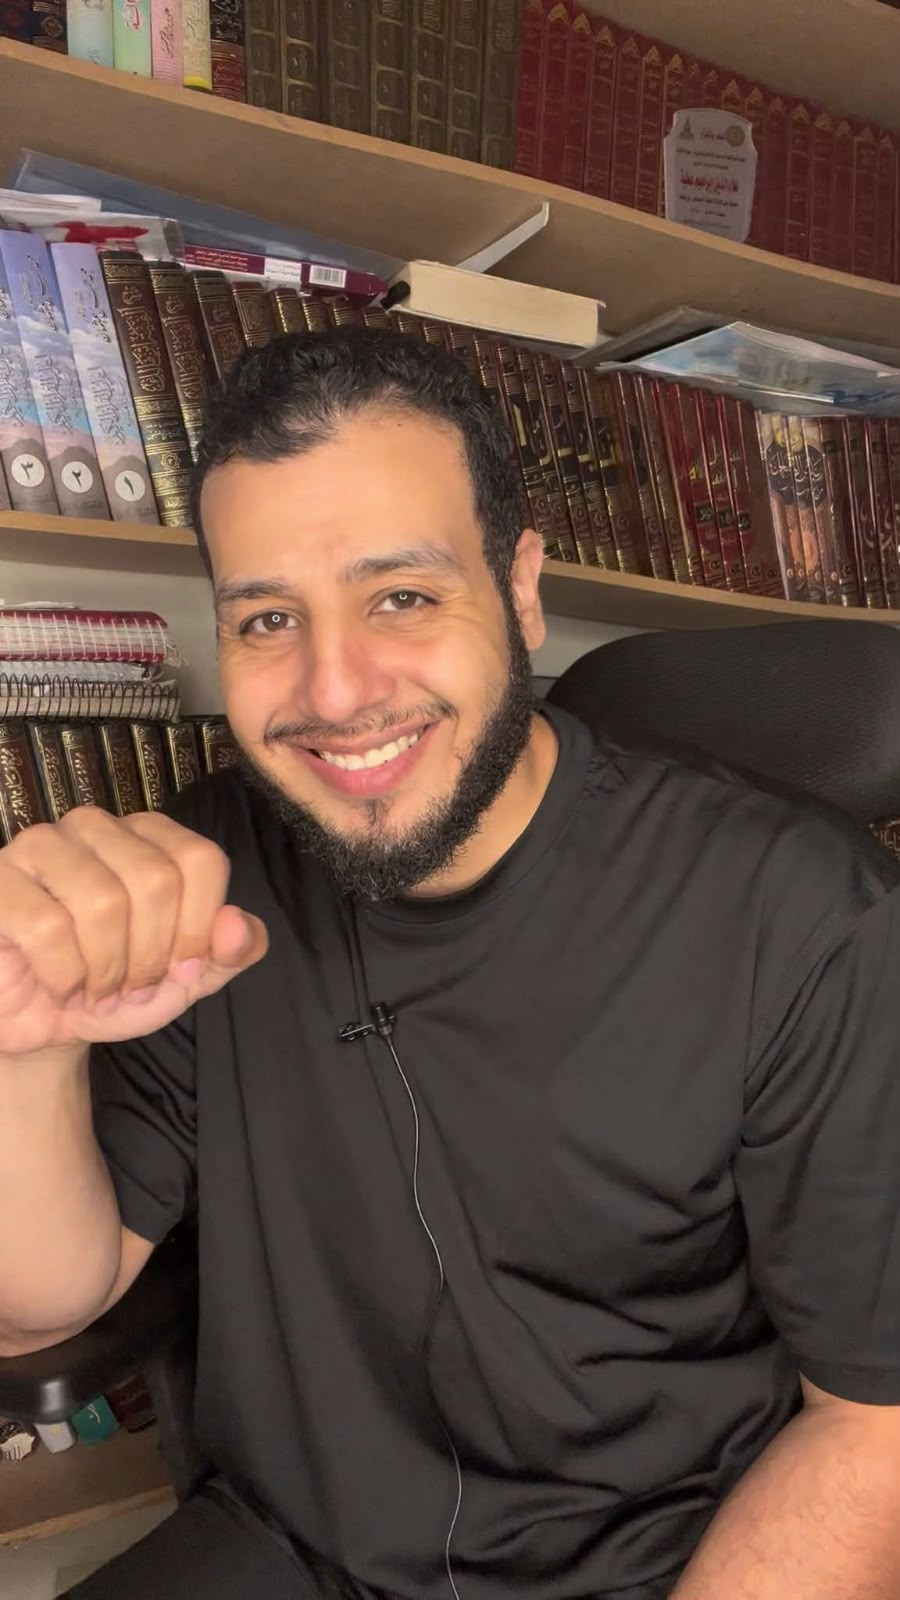
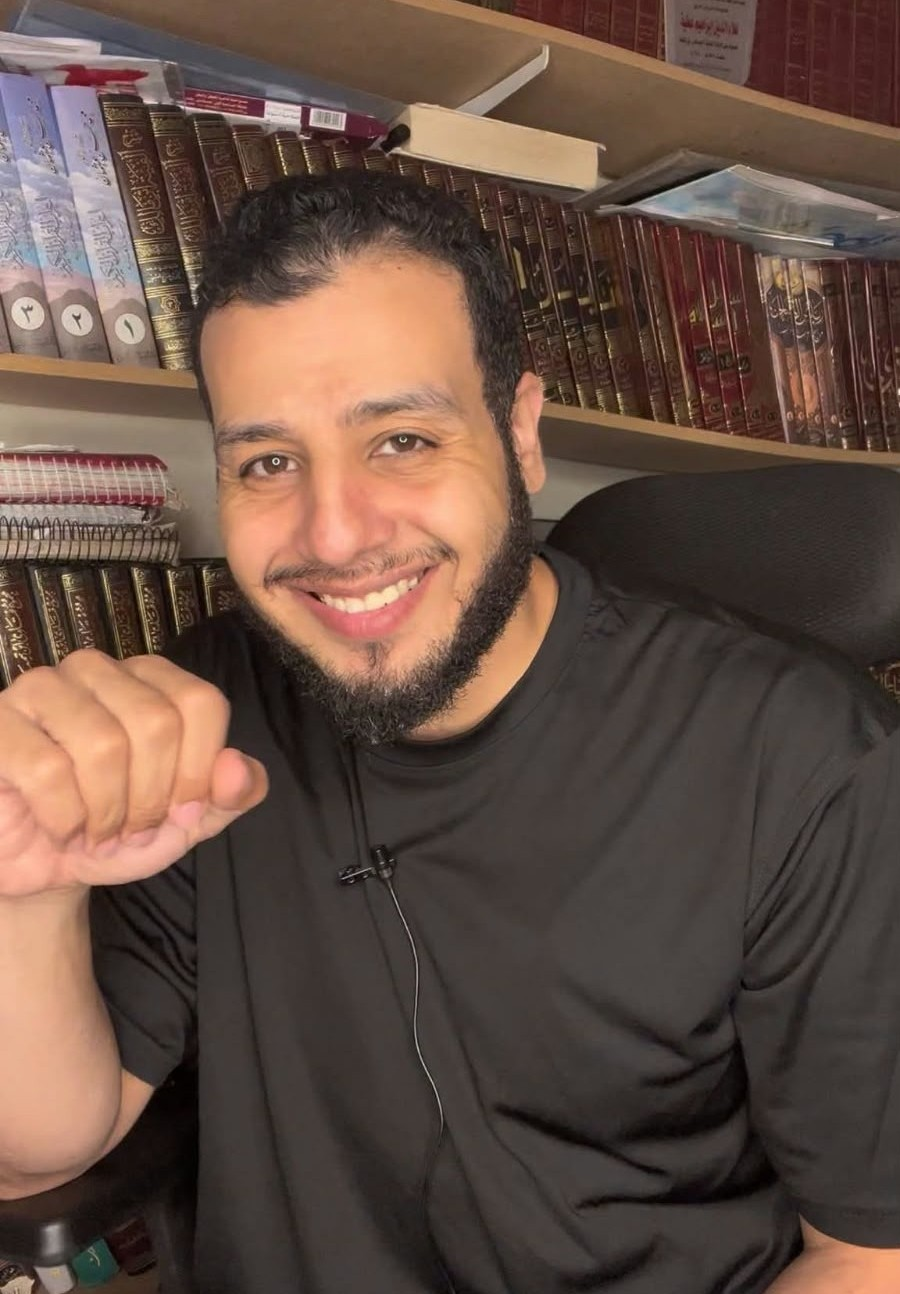
first commit

diff --git a/src/data/sheikhConfig.ts b/src/data/sheikhConfig.ts
@@ -13,7 +13,7 @@ export const sheikhConfig: SheikhConfig = {
 
   // الصور
   logo: "",
-  heroImage: "https://yt3.googleusercontent.com/hLJQIvvzfEzchI3RAzpWOLy9e3WFC6zwEraJ7hwJn4XYiMCXvIROQVgh7i0MCRE8ktlF_uaE4hI=s800-c-k-c0x00ffffff-no-rj",
+  heroImage: "/channels4_profile.jpg",
 
   // معلومات تفصيلية
   yearsInField: 12,
@@ -210,6 +210,6 @@ export const sheikhConfig: SheikhConfig = {
       "سلاسل علمية أزهرية",
       "قضايا معاصرة"
     ],
-    defaultImage: "https://yt3.googleusercontent.com/hLJQIvvzfEzchI3RAzpWOLy9e3WFC6zwEraJ7hwJn4XYiMCXvIROQVgh7i0MCRE8ktlF_uaE4hI=s800-c-k-c0x00ffffff-no-rj"
+    defaultImage: "/channels4_profile.jpg"
   }
 };

diff --git a/index.html b/index.html
@@ -2,7 +2,7 @@
 <html lang="ar" dir="rtl">
   <head>
     <meta charset="UTF-8" />
-    <link rel="icon" type="image/svg+xml" href="https://yt3.googleusercontent.com/hLJQIvvzfEzchI3RAzpWOLy9e3WFC6zwEraJ7hwJn4XYiMCXvIROQVgh7i0MCRE8ktlF_uaE4hI=s800-c-k-c0x00ffffff-no-rj" />
+    <link rel="icon" type="image/jpeg" href="/channels4_profile.jpg" />
     <meta name="viewport" content="width=device-width, initial-scale=1.0" />
     <link rel="preconnect" href="https://fonts.googleapis.com">
     <link rel="preconnect" href="https://fonts.gstatic.com" crossorigin>

diff --git a/src/pages/Home.tsx b/src/pages/Home.tsx
@@ -293,7 +293,8 @@ const Hero = () => (
                 <img
                   src={sheikhConfig.heroImage || sheikhConfig.seo.defaultImage}
                   alt={sheikhConfig.name}
-                  className="w-full h-full object-cover object-top hover:scale-105 transition-transform duration-700"
+                  style={{ objectPosition: '50% 38%' }}
+                  className="w-full h-full object-cover hover:scale-105 transition-transform duration-700"
                 />
               </div>
             </div>

diff --git a/src/components/Header.tsx b/src/components/Header.tsx
@@ -361,6 +361,7 @@ const Navbar = () => {
                 <img
                   src={sheikhConfig.heroImage}
                   alt={sheikhConfig.name}
+                  style={{ objectPosition: '50% 38%' }}
                   className="w-full h-full object-cover group-hover:scale-105 transition-transform"
                 />
               </div>

diff --git a/src/index.css b/src/index.css
@@ -407,6 +407,7 @@
   }
   .profile-hero-image {
     @apply w-full h-full object-cover rounded-full border-4;
+    object-position: 50% 38%;
     border-color: var(--card);
   }
   .profile-hero-image-badge {
